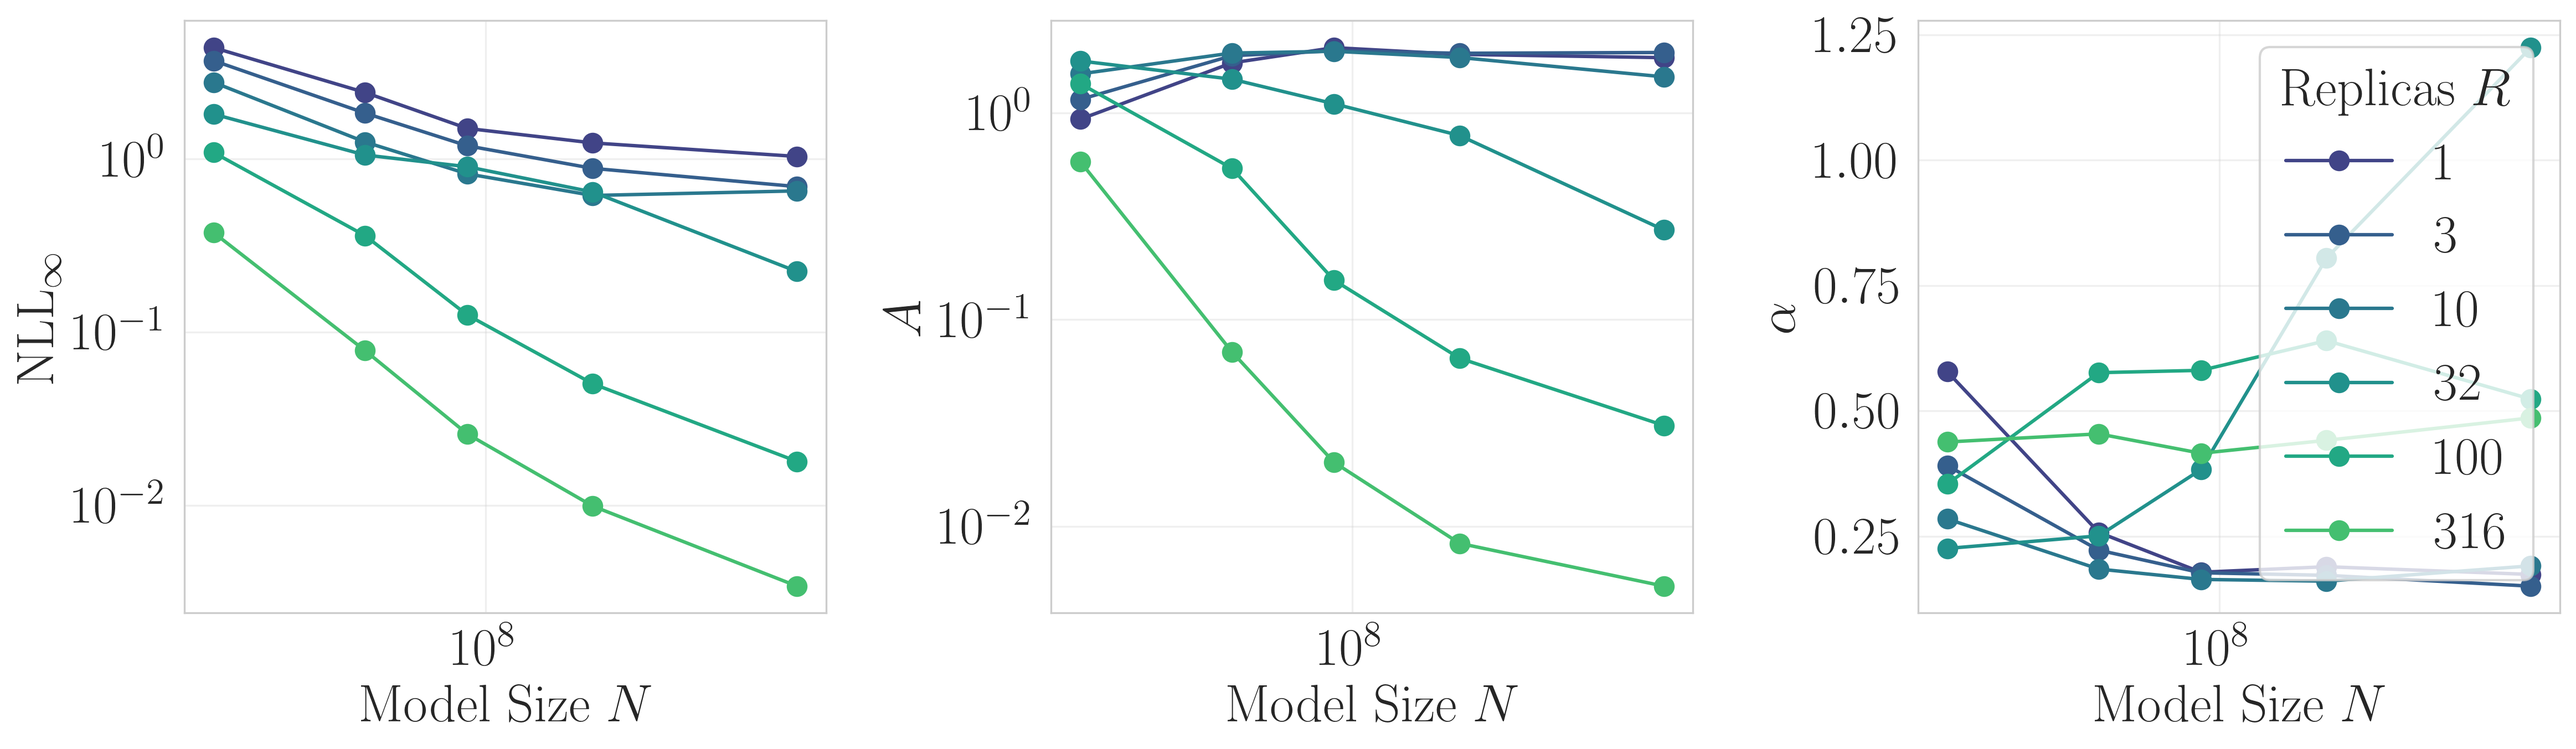
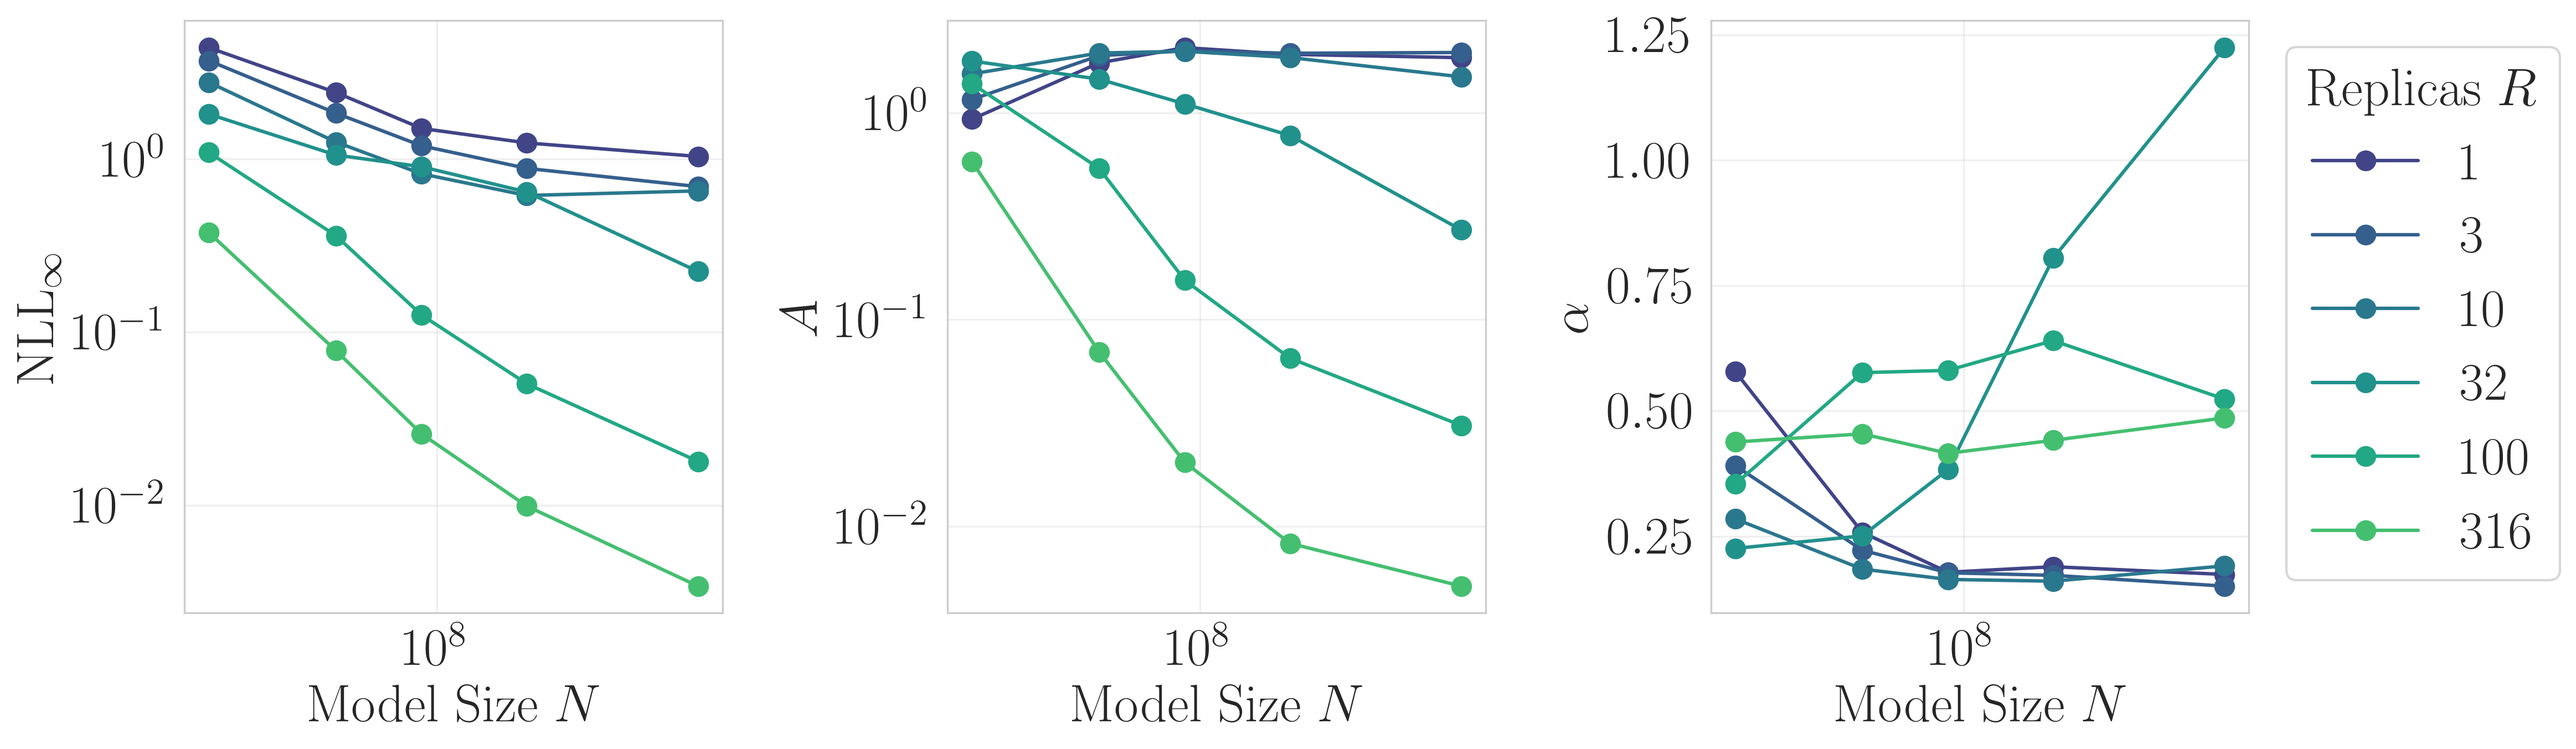
Move legends outside plot area to avoid overlap
- Use bbox_to_anchor=(1.02, 1) and loc="upper left" for legends
- Add subplots_adjust(right=0.88) to make room for external legends
- Applied to both fit params plots

diff --git a/notebooks/14_math_qwen3_pt_math_verify_teacher_forcing/14_math_qwen3_pt_math_verify_teacher_forcing.py b/notebooks/14_math_qwen3_pt_math_verify_teacher_forcing/14_math_qwen3_pt_math_verify_teacher_forcing.py
@@ -2650,8 +2650,9 @@ for i, (param_name, ylabel, use_log_y) in enumerate(
         ax.set_yscale("log")
     ax.grid(True, alpha=0.3)
 
-axes[2].legend(title=r"Model Size", loc="best")
+axes[2].legend(title=r"Model Size", bbox_to_anchor=(1.02, 1), loc="upper left")
 plt.tight_layout()
+plt.subplots_adjust(right=0.88)  # Make room for legend
 
 src.plot.save_plot_with_multiple_extensions(
     plot_dir=results_dir,
@@ -2701,8 +2702,9 @@ for i, (param_name, ylabel, use_log_y) in enumerate(
         ax.set_yscale("log")
     ax.grid(True, alpha=0.3)
 
-axes[2].legend(title=r"Replicas $R$", loc="best")
+axes[2].legend(title=r"Replicas $R$", bbox_to_anchor=(1.02, 1), loc="upper left")
 plt.tight_layout()
+plt.subplots_adjust(right=0.88)  # Make room for legend
 
 src.plot.save_plot_with_multiple_extensions(
     plot_dir=results_dir,
